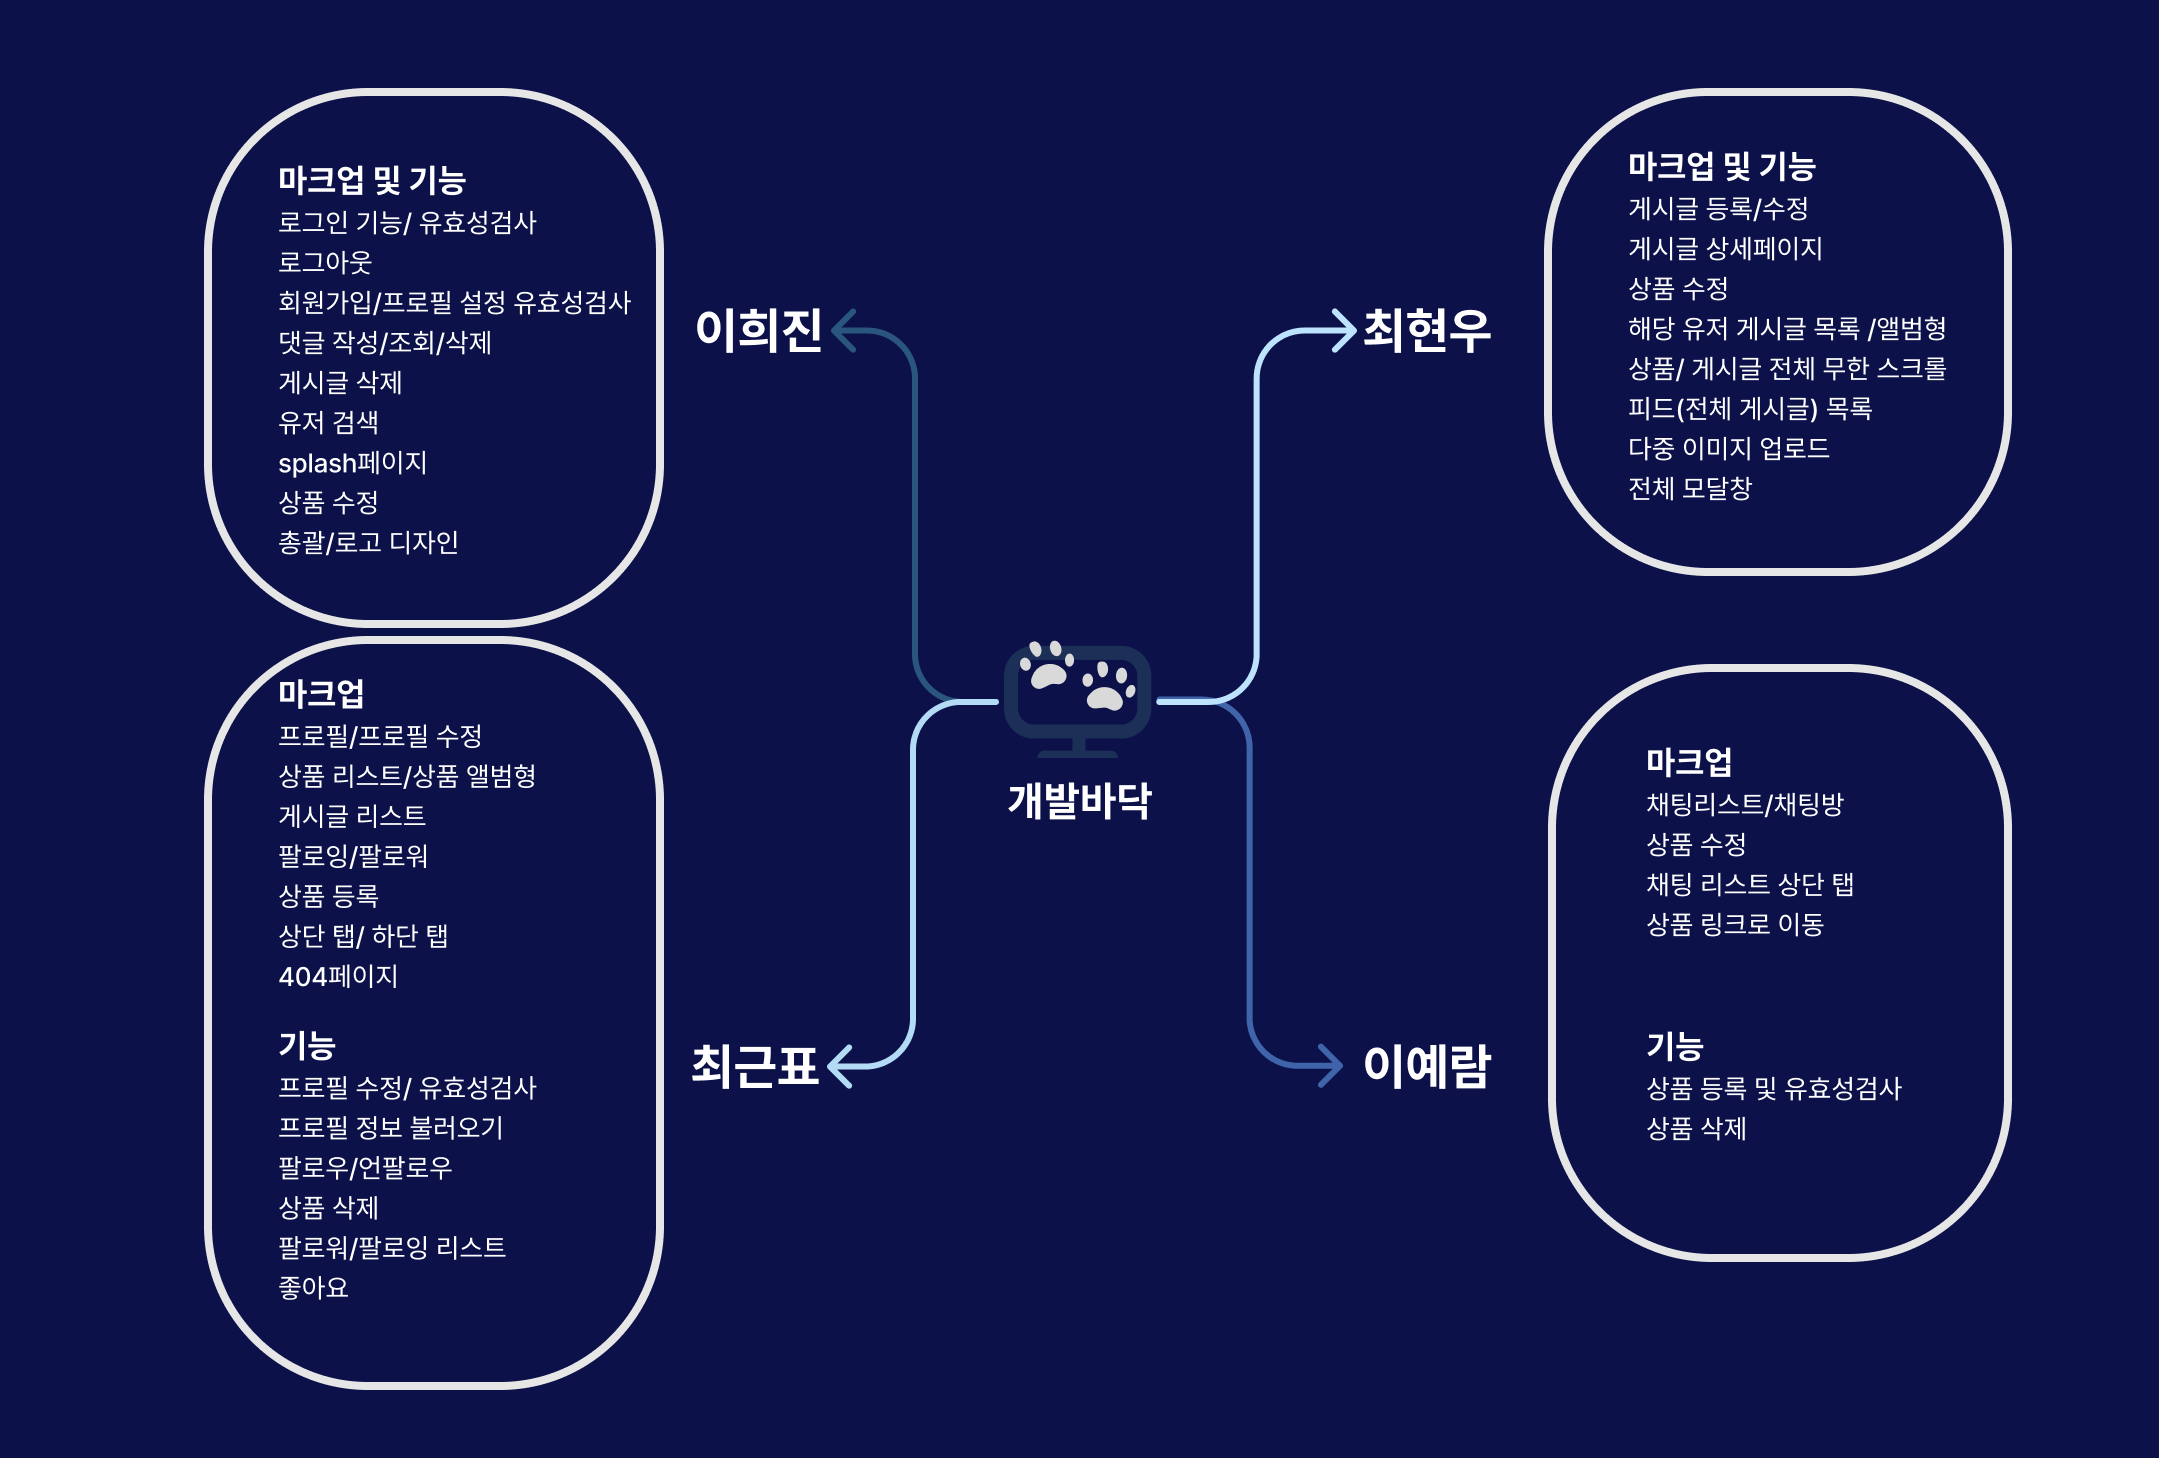
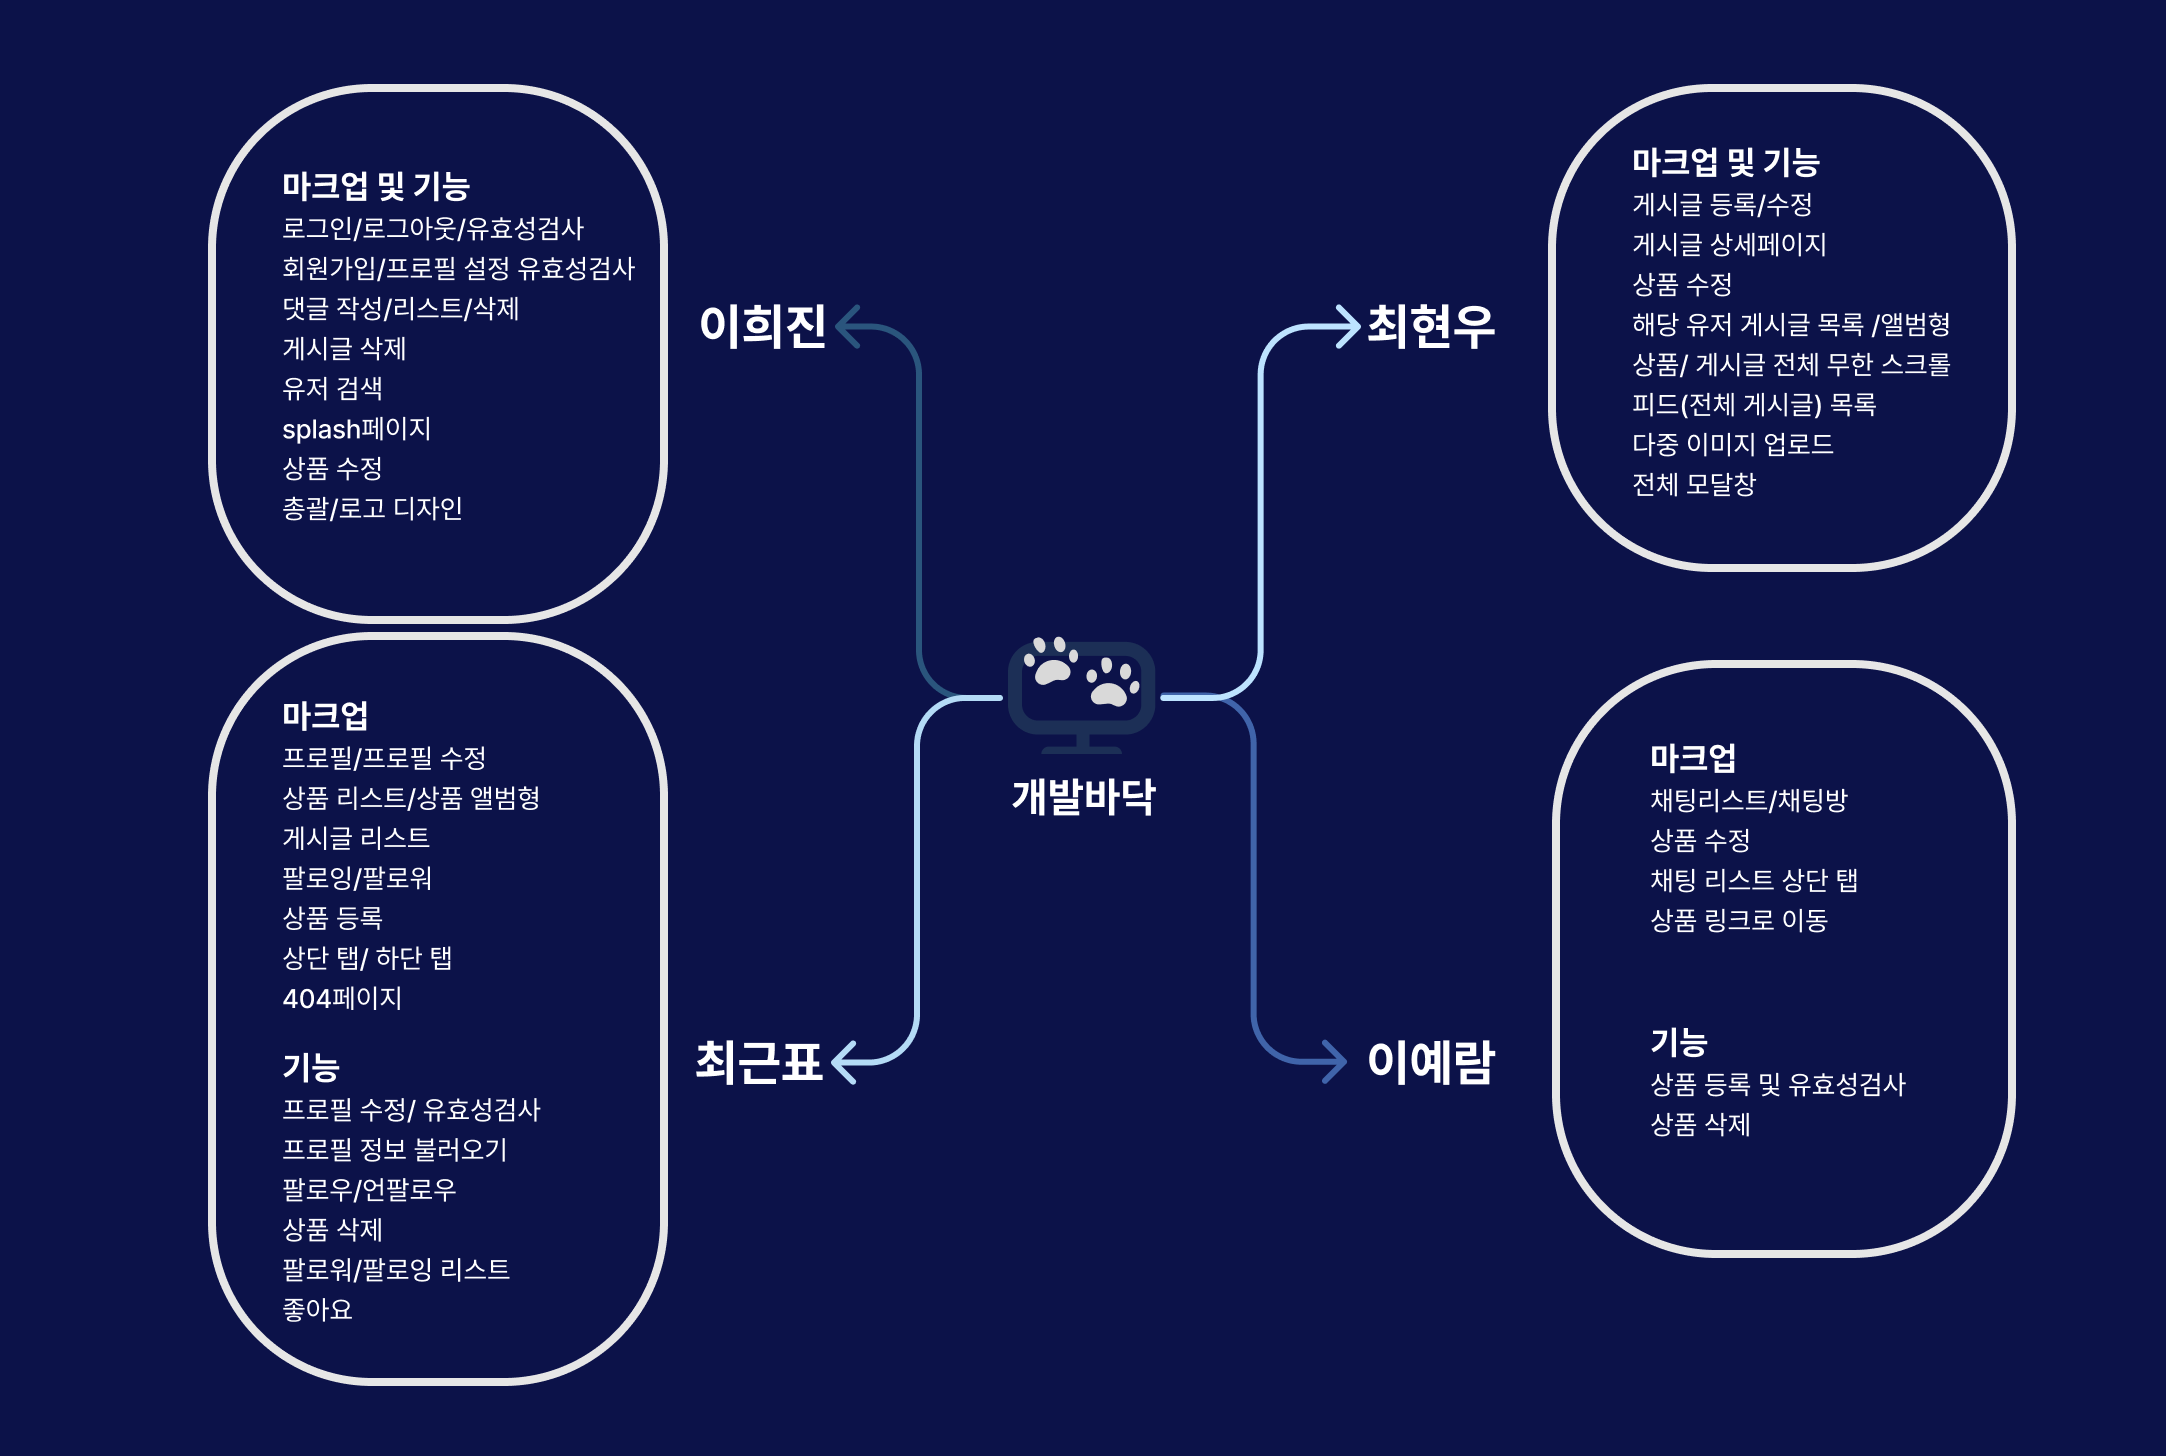
Docs: 리드미 개발기간 수정

diff --git a/src/components/modal/ModalComDel.jsx b/src/components/modal/ModalComDel.jsx
@@ -37,8 +37,8 @@ export default function ModalComDel({
                 <img src={bar} alt='' />
                 </button>
             </div>
-            <div className='letter' onClick={commentDel}>
-                <button>삭제</button>
+            <div className='letter'>
+                <button onClick={commentDel}>삭제</button>
             </div>
             </div>
         </Sect1>

diff --git a/README.md b/README.md
@@ -3,7 +3,7 @@
     <img src="src/assets/images/readme.png"/>
 </div>
 <br>
-테스트 계정
+ 테스트 계정
 
 ```
 ID: dev_floor@test.com
@@ -20,6 +20,8 @@ PW: 123123123
 7.  [협업 방식](#7-협업-방식)
 8.  [아쉬운점 & 개선할점](#8-아쉬운점-&-개선할점)
 
+<br>
+
 ## 1. 프로젝트 소개
 
 ### [프로젝트 소개]
@@ -31,12 +33,50 @@ PW: 123123123
 
 
 ### [프로젝트 개발기간]
-<img src="src/assets/images/calendar.png"/>
+<table>
+  <thead>
+    <tr>
+      <th>기간</th>
+      <th>작업 내용</th>
+    </tr>
+  </thead>
+  <tbody>
+    <tr>
+      <td>10/12</td>
+      <td>첫 회의</td>
+    </tr>
+    <tr>
+      <td>10/13 - 10/16</td>
+      <td>협업 계획 디자인 및 프로젝트 세팅</td>
+    </tr>
+    <tr>
+      <td>10/17 - 10/22</td>
+      <td>전체 마크업</td>
+    </tr>
+    <tr>
+      <td>10/23 - 10/29</td>
+      <td>1차 필수 기능 구현</td>
+    </tr>
+    <tr>
+      <td>10/30 - 10/31</td>
+      <td>2차 선택 기능 구현</td>
+    </tr>
+    <tr>
+      <td>11/1 - 11/6</td>
+      <td>버그 해결 및 보완</td>
+    </tr>
+    <tr>
+      <td>11/7 - 11/8</td>
+      <td>프로젝트 배포 및 자료 문서화</td>
+    </tr>
+  </tbody>
+</table>
+
 
 <br>
 
 ## 2. 팀원 소개
-<table style="margin:0 auto;">
+<table style="margin-left:auto; margin-right:auto;">
   <tbody>
     <tr>
       <td align="center"><a href="https://github.com/geunpyochoi"><img src="src/assets/images/geunpyo.jpeg" width="100px;" height="100px;" alt=""/><br /><b>FE 팀장 : 최근표</b></a><br /></td>
@@ -146,7 +186,7 @@ PW: 123123123
   - 모든 유저 게시글 목록
   - 해당 유저 게시글 목록
   - 게시글 상세페이지
-  <!-- - 팔로잉 게시글 목록 -->
+  - 팔로잉 게시글 목록
 
 - **🛒 Product**
     - 상품 등록
@@ -155,7 +195,7 @@ PW: 123123123
 
 - **⌨ Commemt**
 
-  - 댓글 등록/수정/삭제
+  - 댓글 작성/리스트/삭제
 
 - **🔎 Search**
 
@@ -170,7 +210,7 @@ PW: 123123123
 
 - **❤ Like**
 
-  - 게시물 좋아요 및 취소
+  - 게시글 좋아요 및 취소
 
 <br/>
 
@@ -473,7 +513,7 @@ PW: 123123123
 
 - **라이브 쉐어**
 
-  라이브 쉐어 프로그램을 사용하여 오류나 어려움이 있는 부분을 함께 해결하고, 기술적 중요도가 높은 파트에서는 함께 작업함으로써 전체 코드에 대한 각 구성원들의 이해도를 높였습니다.
+  라이브 쉐어 프로그램을 사용하여 오류나 어려움이 있는 부분을 함께 해결하고, 기술적으로 어려운 파트는 함께 공동 작업함으로써 코드에 대한 팀원들의 이해도를 높였습니다.
 
 - **깃플로우**
 
@@ -487,4 +527,4 @@ PW: 123123123
 
 2. GitHub 이슈를 활용하지 않았습니다. 이슈를 통해 프로젝트의 진행 상황을 효과적으로 추적하고 문제를 관리할 수 있었을 텐데, 이 기회를 놓친 것이 아쉬워서 추후 리팩토링때는 활용할 예정 입니다.
 
-3. 리코일로 상태관리를 하면서 처음 적용하다보니 마구잡이로 구현하게 되어 중복도 많아져 오류가 생기기도 했습니다. 더 쳬게적이고 일관성있게 리팩토링 할 예정입니다.
+3. 리코일로 상태관리를 하면서 처음 적용하다보니 마구잡이로 구현하게 되어 중복도 많아져 오류가 생기기도 했습니다. 더 체계적이고 일관성있게 리팩토링 할 예정입니다.
